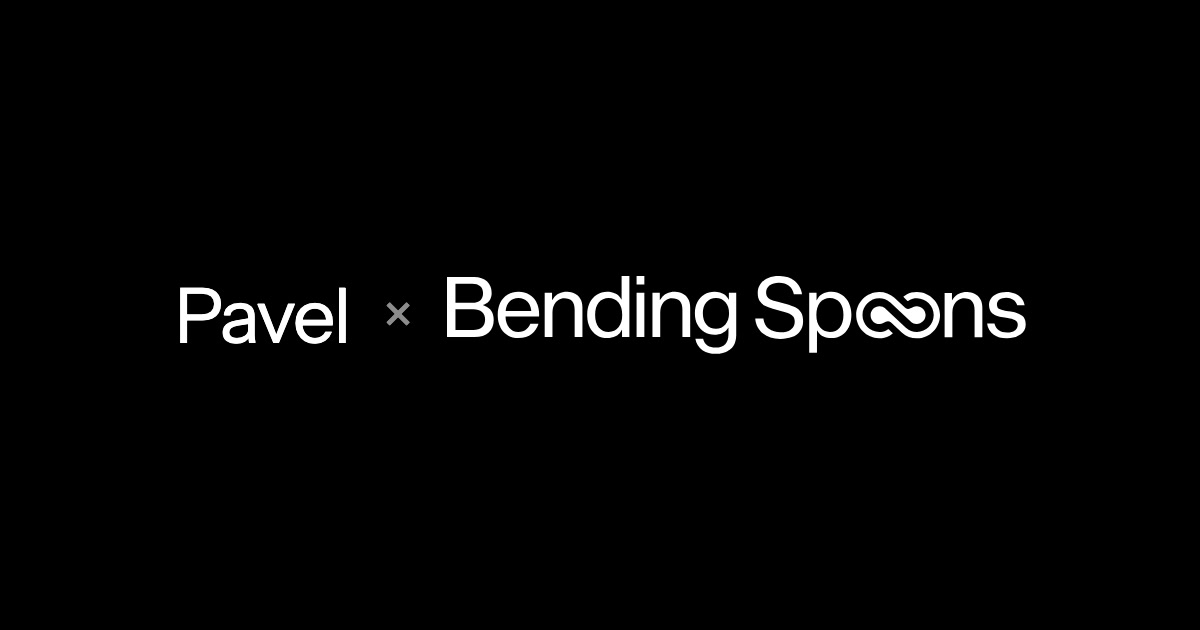
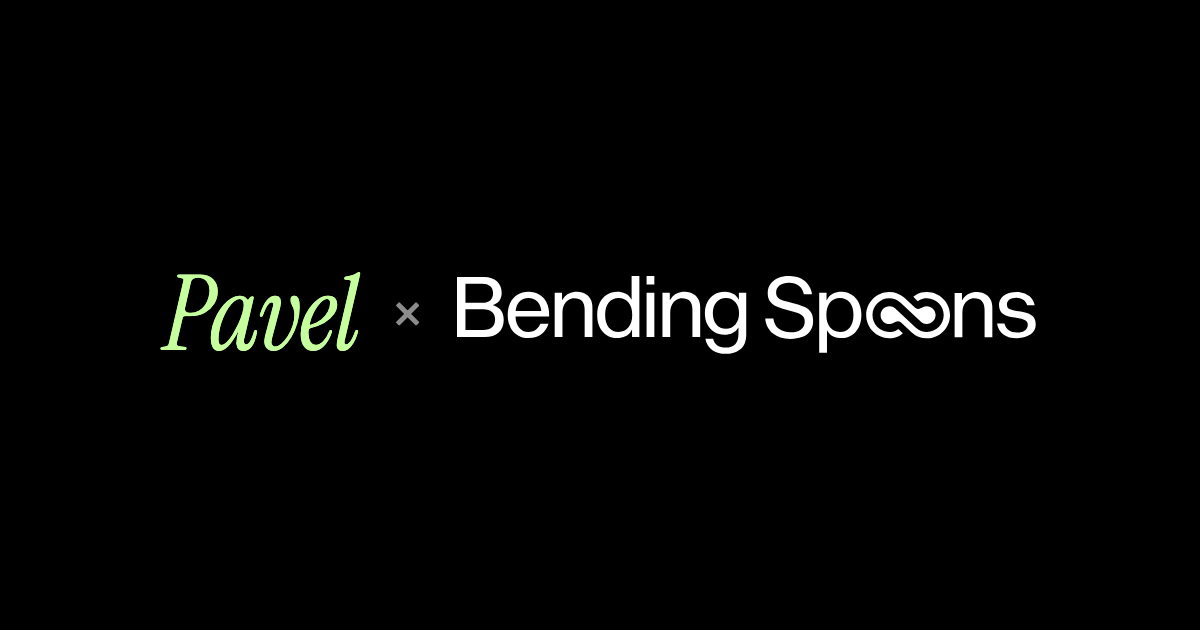
Pavel in lime serif italic: header, puzzle card, preview

Changed region(s): [[0.1233, 0.4222, 0.8633, 0.573]]

diff --git a/index.html b/index.html
@@ -291,6 +291,7 @@
   .occupation .occ-kicker:empty { display:none; }
   .occupation .occ-lead { font-family:inherit; font-style:normal; color:#fff; }
   .occupation h2 strong { color:#c7ff9f; }
+  .lockup > span:first-child { font-family:'Instrument Serif', Georgia, serif; font-style:italic; color:#c7ff9f; font-size:25px; letter-spacing:-0.01em; line-height:1; }
 </style>
 </head>
 <body>
@@ -381,6 +382,7 @@
   .pz-pic small { display:block; font-family:'Fragment Mono', ui-monospace, monospace; font-size:13px; color:#c7ff9f; margin-bottom:12px; }
   .pz-pic .pz-with { display:flex; justify-content:center; align-items:center; gap:12px; margin-bottom:18px;
                      font-family:'Instrument Sans', sans-serif; font-size:24px; font-weight:400; letter-spacing:-0.02em; color:#fff; }
+  .pz-pic .pz-with span { font-family:'Instrument Serif', Georgia, serif; font-style:italic; color:#c7ff9f; font-size:32px; letter-spacing:-0.01em; line-height:1; }
   .pz-pic .pz-with i { font-style:normal; opacity:.55; font-size:20px; }
   .pz-pic .pz-with img { height:26px; width:auto; display:block; }
   .pz-pic p { margin:0; font-size:clamp(26px,3.4vw,42px); line-height:1.12; letter-spacing:-0.035em; }
@@ -401,7 +403,7 @@
     .pz-pic { max-width:640px; opacity:1; transform:none; padding:28px 24px; border-radius:28px; text-align:left; }
     .pz-pic p { font-size:28px; }
     .pz-pic .pz-with { justify-content:flex-start; font-size:20px; gap:10px; }
-    .pz-pic .pz-with img { height:21px; }
+    .pz-pic .pz-with img { height:21px; } .pz-pic .pz-with span { font-size:27px; }
   }
 </style>
 <section class="band pz" id="match">
